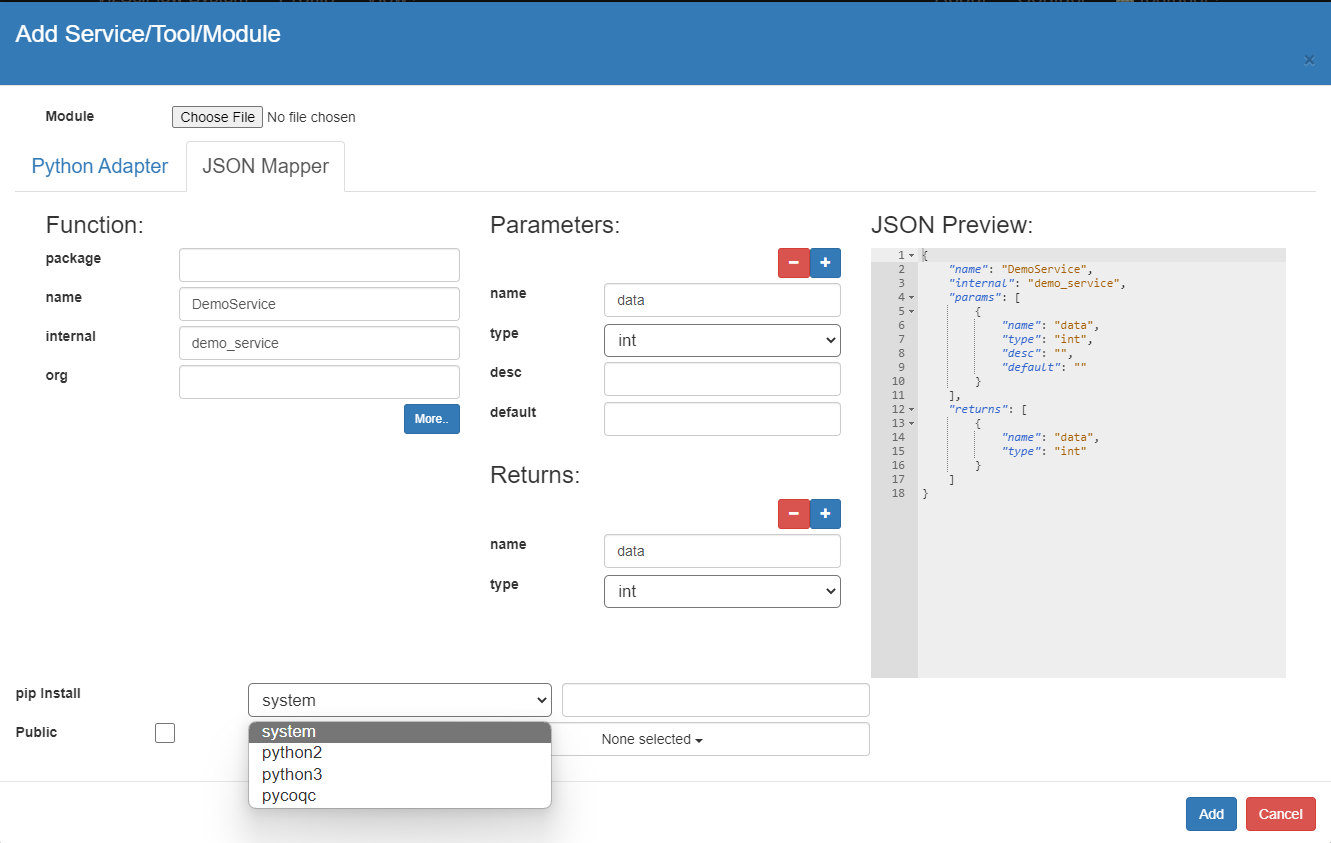
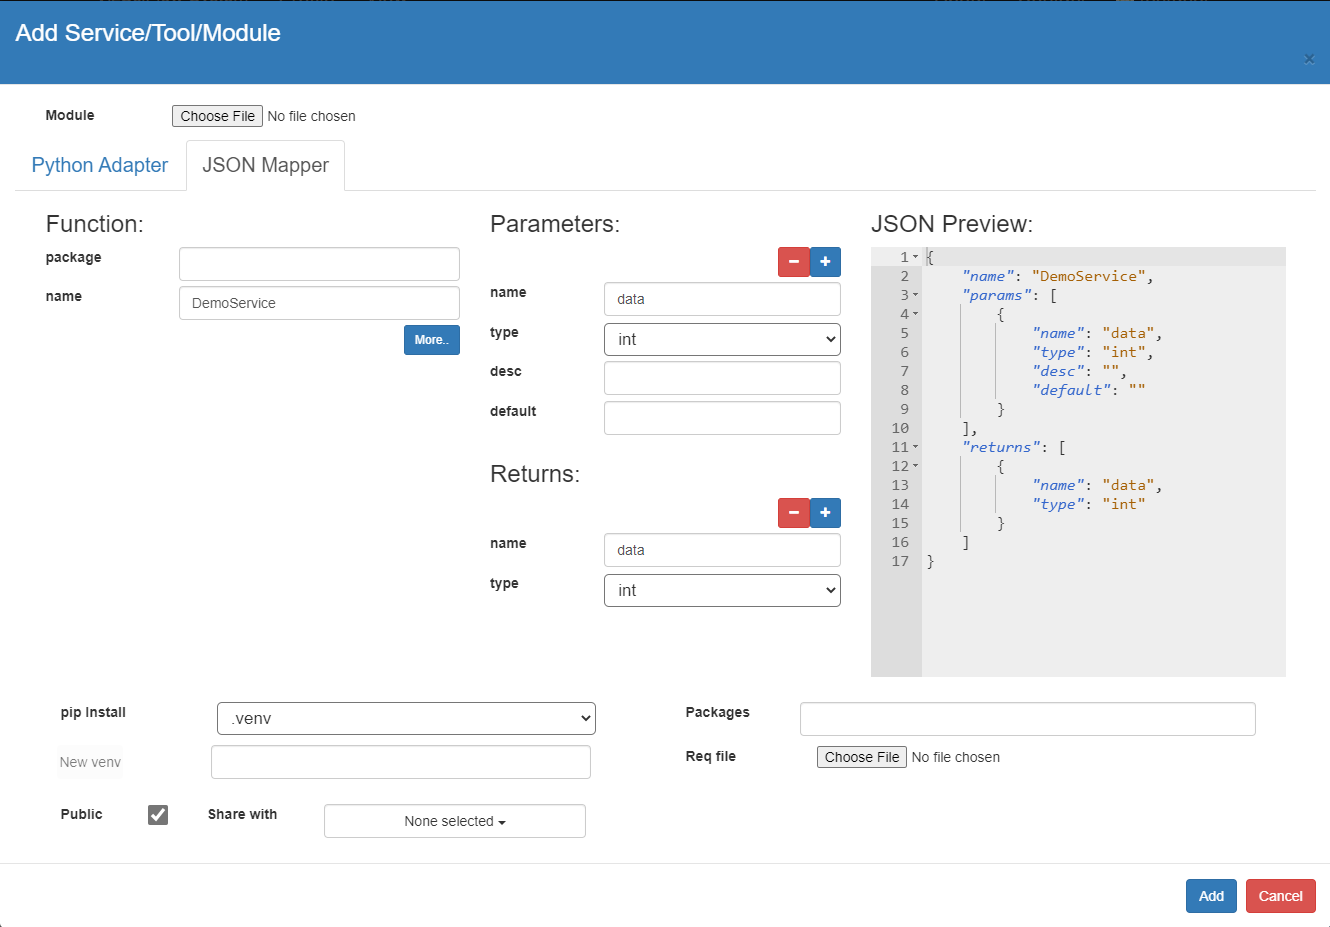
#67: Add Service documentation in help file improved.

diff --git a/src/app/static/biodsl-help.html b/src/app/static/biodsl-help.html
@@ -41,16 +41,35 @@ for f in GetFiles('/public/MiSeq_SOP'):
 </td>
   </tr>
   <tr>
-  	<td>Parallelization</td>
-  	<td><font color="green">parallel ... with</font></td><td><pre><code class="python">
+  	<td rowspan="2">Parallelization</td>
+  	
+	<td><font color="green">parallel ... with</font></td>
+	
+	<td><pre><code class="python">
 datas = ['/public/MiSeq_SOP/F3D6_S194_L001_R1_001.fastq', '/public/MiSeq_SOP/F3D6_S194_L001_R2_001.fastq']
 parallel:
     fq_html = fastqc.CheckQuality(datas[0])
 with:
     fq_html = fastqc.CheckQuality(datas[1])</code></pre></td>
+
+
   </tr>
   <tr>
-  	<td>Subworkflow</td><td><font color="green">task</font></td><td><pre><code class="python">
+	
+  <td><font color="green">parfor</font></td>
+  
+  <td><pre><code class="python">
+datas = ['/public/MiSeq_SOP/F3D6_S194_L001_R1_001.fastq', '/public/MiSeq_SOP/F3D6_S194_L001_R2_001.fastq']
+parfor data in datas:
+  fq_html = fastqc.CheckQuality(data)
+
+</tr>
+  <tr>
+  	<td rowspan="2">Subworkflow</td>
+	<td><font color="green">task</font></td>
+	<td>
+		Task is similar to functions in General-Purpose Programming Language.
+		<pre><code class="python">
 task AlignSequences(ref, data, data2):
     CheckQuality(data)
     CheckQuality(data2)
@@ -64,8 +83,17 @@ AlignSequences('/public/genomes/Chr1.cdna', '/public/MiSeq_SOP/F3D6_S194_L001_R1
 </code></pre></td>
   </tr>
   <tr>
-        <td/><td/><td>An anonymous task without name is called at once. Named tasks are called from somewhere else.</td>
-    </tr>
+	<td><font color="green">Workflow</font></td>
+
+  <td>
+	Run a pre-existing workflow with its ID and passing arguments.
+	  <pre>
+<code class="python">
+Workflow(id=&lt;workflow_id&gt;, **kwargs)
+</code>
+	  </pre>
+  </td>
+</tr>
 </table>
 
 
@@ -143,7 +171,7 @@ There is a small toolbar on top of data source panel.
 <h3><a name="services">Services Panel</a></h3>
 <img alt="Services" src="biodsl-services.png" />
 <p>
-The services/tools/modules for the workflows are listed on the right-top corner of the UI. There are 3 different access modes for the service.
+The services/tools/modules for the workflows are listed on the right-top corner of the UI. There are 3 different access modes for the service. If you don't see your tool, click the "All" radio button.
 </p>
 <ol>
 	<li>Public: Accessible by all users.</li>
@@ -160,7 +188,7 @@ Different types of tools can be integrated into VizSciFlow system.
 
 <ol>
 	<li>Python code: You can wrap python code in the code editor as a tool. If you need a module from PyPi, add the module to <b>pip install</b> textbox.</li>
-	<li>Python module: You can attach your python module with <b>Add file</b> button. You need to use the module in your adapter code.</li>
+	<li>Python module: You can attach your python module with <b>Add file</b> button. You need to use the module in your adapter code. If it is a zip/tar/bz file, it will be extracted where the adapter resides.</li>
 	<li>External standalone tool: You can add the package with <b>Add File</b> and then use it from the adapter. If it is a zip/tar/bz file, it will be extracted where the adapter resides. You need to know the extracted folder to use its executable.</li>
 	<li>External installer: This type of tools can't be installed directly. They need interactive installation or compilation which only administrators can do. More about it in the limitations below.</li>
 </ol>
@@ -170,7 +198,7 @@ To add an external tool, you must know how to call the tool from python.
 	<li>The location of the tool.</li>
 	<li>The arguments it accepts. Some of these arguments might be your (formatted) input parameters.</li>
 	<li>The result it returns. Sometimes, stdout and stderr may be necessary. Your output of the tool will be selected/calculated from these values.</li>
-	<li>VizSciFlow works in batch mode. So any interactive display will not work. Output must be saved to a file and returned.</li>
+	<li>VizSciFlow works in batch mode. So any interactive display will not work. Output must be saved to a file and returned from adapter.</li>
 </ul>
 
 
@@ -245,6 +273,15 @@ print(DemoService(10))
 </pre>
 If you run this 10 will be printed in log.
 
+<p>
+<h4>pip install:</h4> If you need to install a PyPi package, select a virtual environment for it. If you select the system's virtual environment (.venv), you can use it directly in your adapter in usual way. You can also install a list of packages by giving a requirements file.
+If you select another python environment (e.g. .venvpy2), you have to create a bash script to run your python 2 code. We have example of it below.
+You can also create a separate virtual environment for you. In that case, first type your environment name in the text box beside "New venv". Once you type it, "New venv" button we active. Click it to create the environment. On success, it will appear in virtual environment dropdown.
+</p>
+<h4>Share:</h4> If you check the "Public" box, the tool will be added as public and usable by all. You can also share it with specific users by selecting them from "Share with" dropdown.
+</p>
+
+Select the "All" redio button on Services/Tools panel if you don't find your tool.
 
 <p>We have shown below a complete example of adding FastQC tool to the system.</p>
 

diff --git a/src/app/templates/biowl.html b/src/app/templates/biowl.html
@@ -749,7 +749,7 @@
 					<button class="close closeComponent" title="Close" type="button">×</button>
 					<div class="row">
 						<div class="col-sm-6">
-							<h4 class="pull-left">Services</h4>
+							<h4 class="pull-left">Services/Tools</h4>
 							<button class="btn btn-primary pull-right" data-toggle="tooltip"
 								data-placement="top" title="About"
 								data-bind="click: about">
